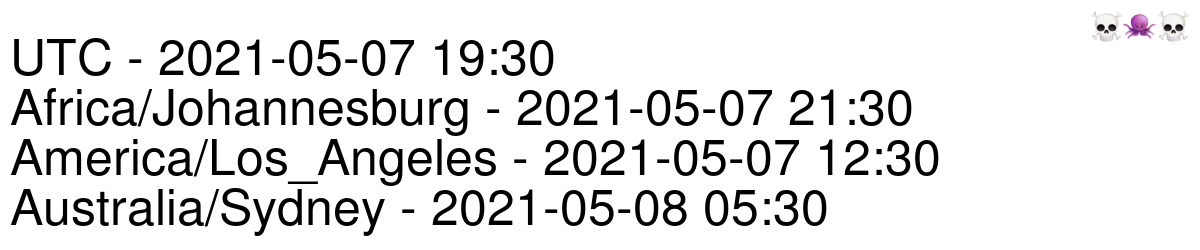
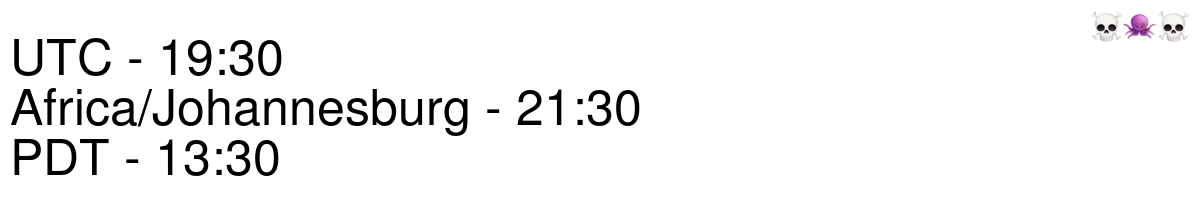
Add source query

Changed region(s): [[0.0, 0.15, 0.8017, 0.93], [0.8942, 0.06, 0.9867, 0.21]]

diff --git a/server/src/index.js b/server/src/index.js
@@ -34,21 +34,21 @@ const ipTimezones = {};
 // }
 
 app.get('/:time/*', async (req, res, next) => {
-
     const {time} = req.params;
-
-
     const ip = req.headers['x-forwarded-for'] ||
         req.socket.remoteAddress ||
         null;
+
+    let overrideTimezone = req.query.source || req.query.timezone || req.query.tz;
+
     let setIpTimezone = false;
     let timezone;
-    if (ip && !req.query.timezone) {
+    if (ip && !overrideTimezone) {
         timezone = ipTimezones[ip] || (await (await fetch(`http://ip-api.com/json/${ip}`)).json()).timezone || null;
         setIpTimezone = !!timezone;
         timezone = timezone || 'UTC'
-    } else if (req.query.timezone) {
-        timezone = req.query.timezone;
+    } else if (overrideTimezone) {
+        timezone = overrideTimezone;
     } else {
         timezone = 'UTC';
     }
@@ -56,12 +56,12 @@ app.get('/:time/*', async (req, res, next) => {
     if (setIpTimezone)
         ipTimezones[ip] = timezone;
 
-
-    const [, , ...zonesRaw] = decodeURI(req.originalUrl).split('/')
+    const [encodedParams,] = req.originalUrl.split('?');
+    const [, , ...zonesRaw] = decodeURI(encodedParams).split('/')
     const zones = zonesRaw.join('/').split('|');
 
     let format = guessFormat(time);
-    const sourceTime = moment.tz(time, format, timezone);
+    const sourceTime = moment.tz(time, format, abbreviations[timezone] || timezone);
     const times = {};
 
     times[timezone] = sourceTime.format(format);
